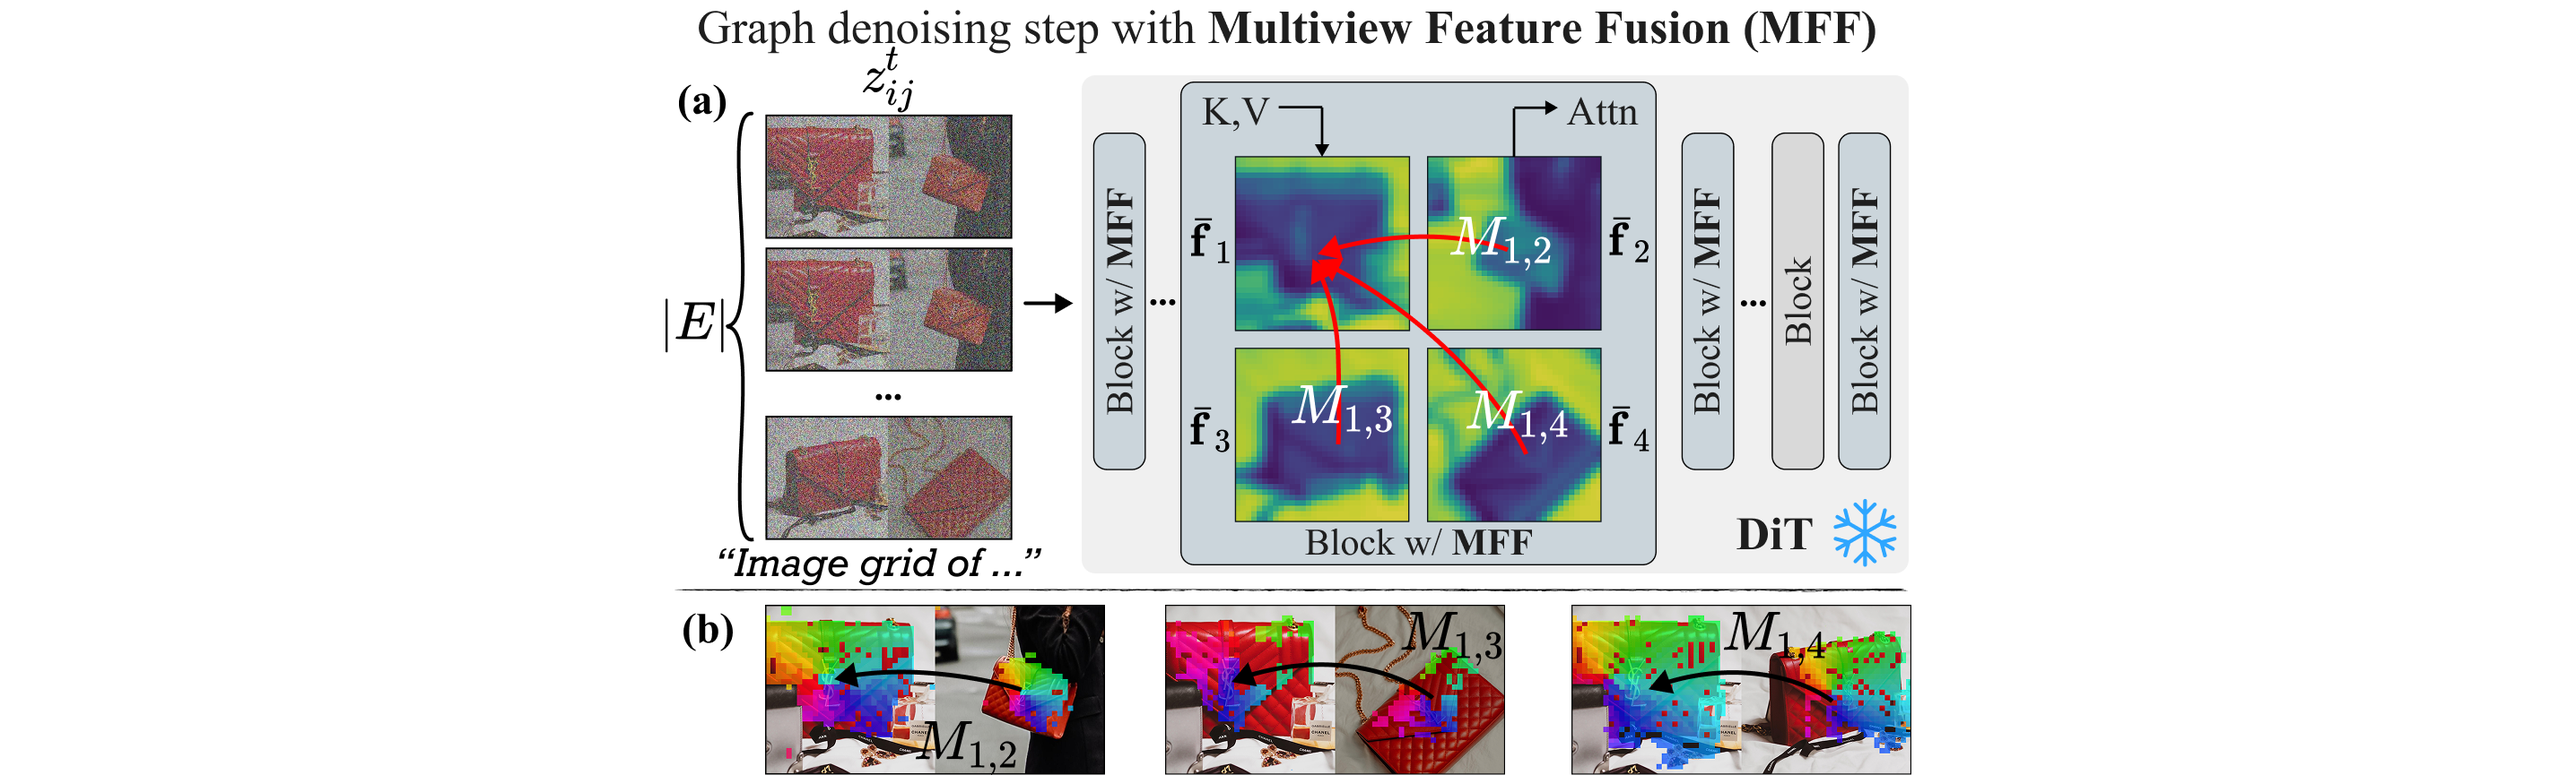
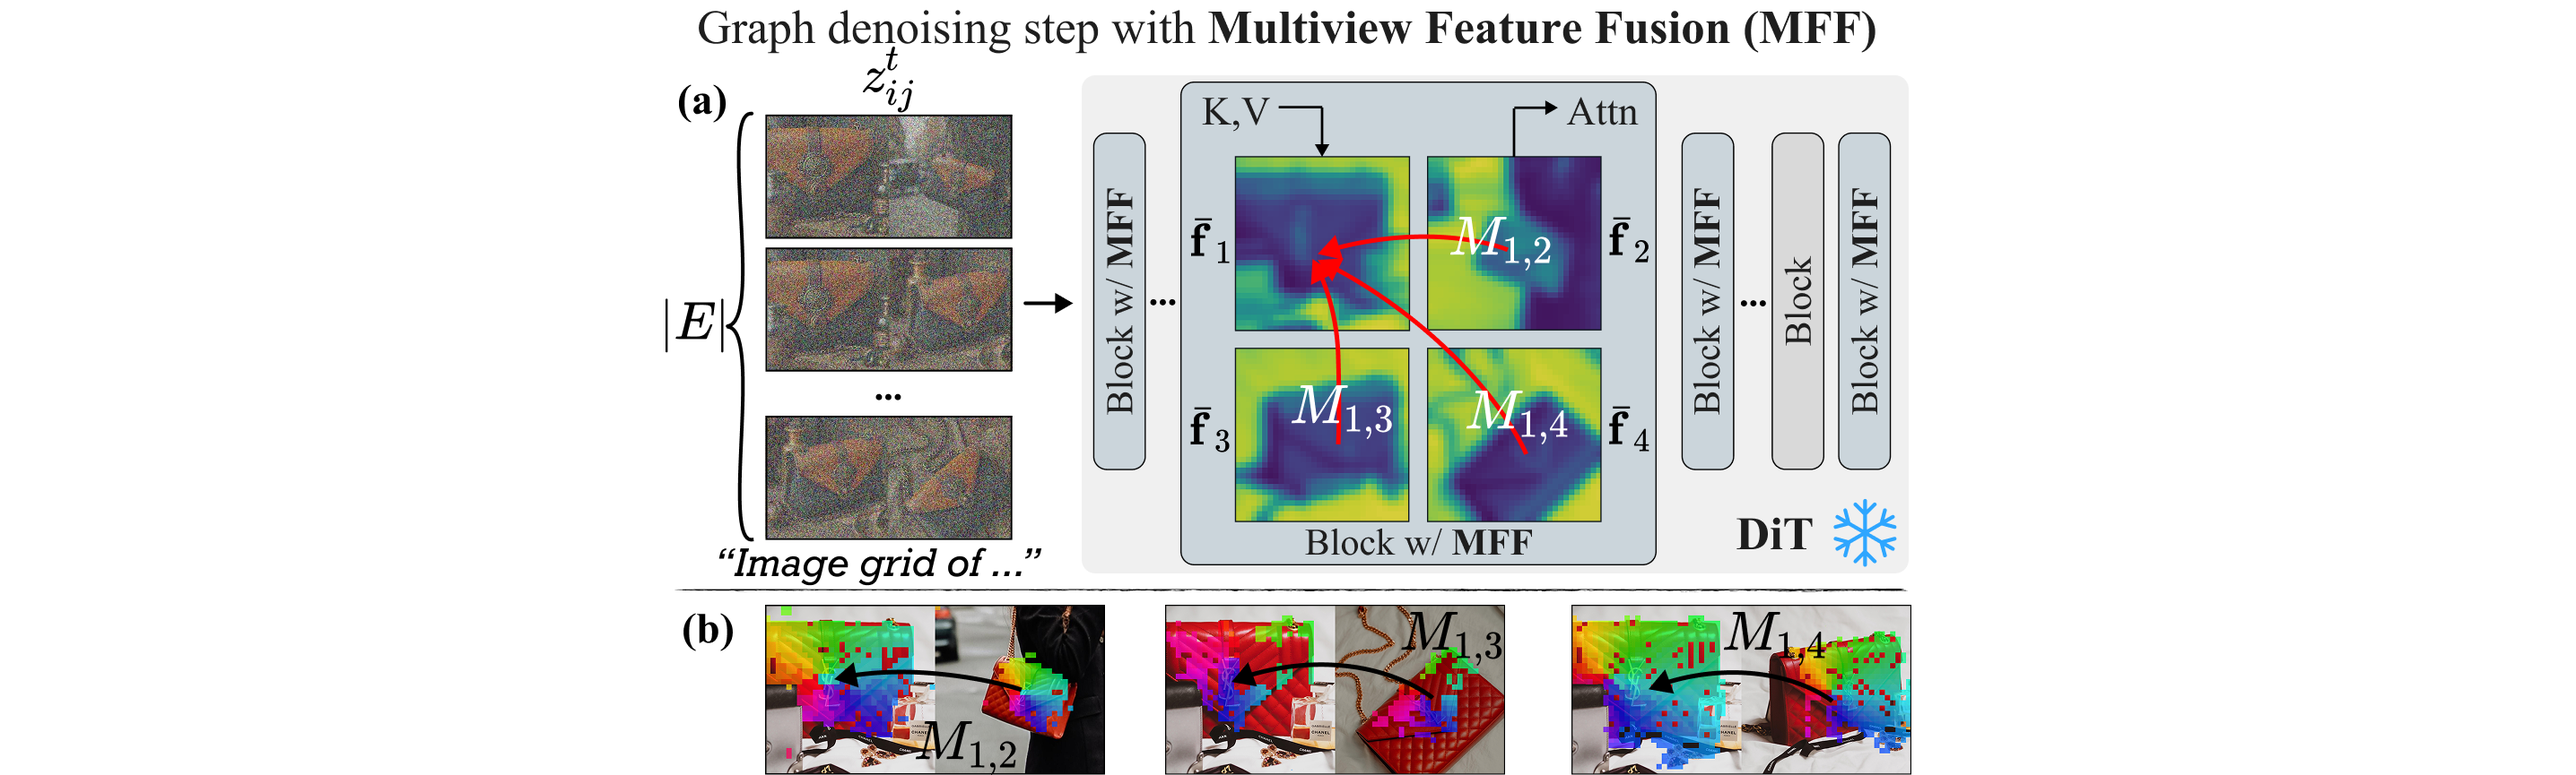
fix: Method figures

Changed region(s): [[0.2789, 0.1249, 0.4029, 0.4994], [0.2789, 0.5306, 0.4029, 0.7179]]

diff --git a/index.html b/index.html
@@ -46,8 +46,8 @@
     <meta name="citation_author" content="Feingold, Kate">
     <meta name="citation_author" content="Kaduri, Omri">
     <meta name="citation_author" content="Dekel, Tali">
-    <meta name="citation_publication_date" content="2025">
-    <!--    <meta name="citation_conference_title" content="CONFERENCE_NAME">-->
+    <meta name="citation_publication_date" content="2026">
+    <meta name="citation_conference_title" content="Proceedings of the IEEE/CVF Conference on Computer Vision and Pattern Recognition (CVPR)">
     <meta name="citation_pdf_url" content="https://arxiv.org/pdf/2511.22287">
 
     <title>Match-and-Fuse: Consistent Generation from Unstructured Image Sets</title>
@@ -96,9 +96,12 @@
                     </div>
 
                     <div class="is-size-5 publication-authors">
-                        <!--                    <span class="author-block">Weizmann Institute of Science<br>CVPR 2026 (under review)</span>-->
                         <span class="author-block">Weizmann Institute of Science</span>
                     </div>
+
+                    <h3 class="title is-3 has-text-centered">
+                        CVPR 2026
+                    </h3>
 
                     <div class="column has-text-centered">
                         <div class="publication-links">
